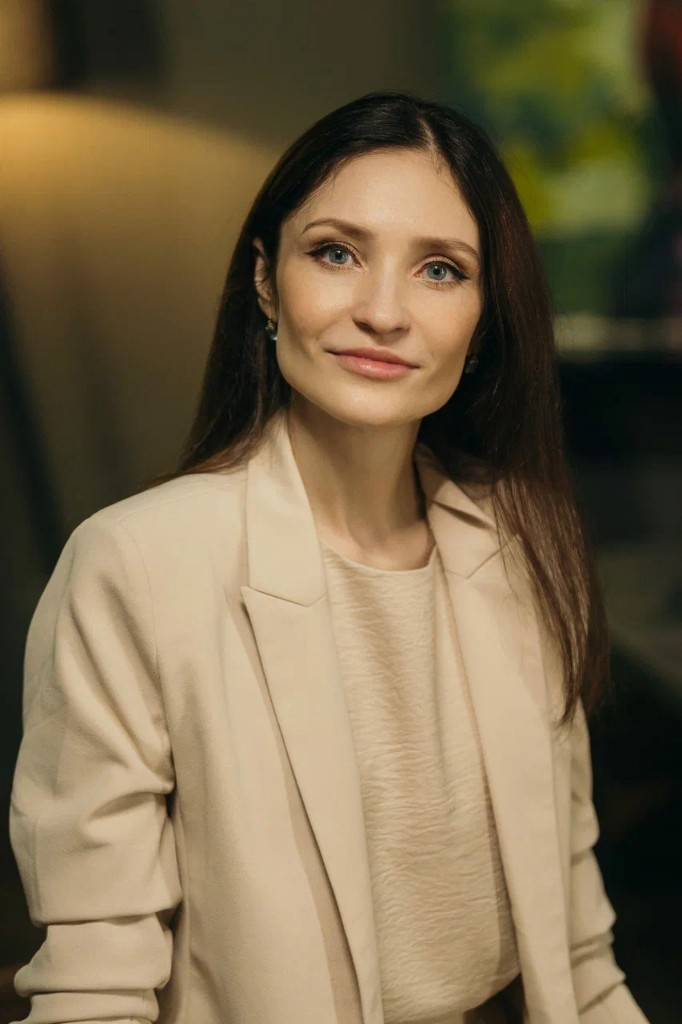
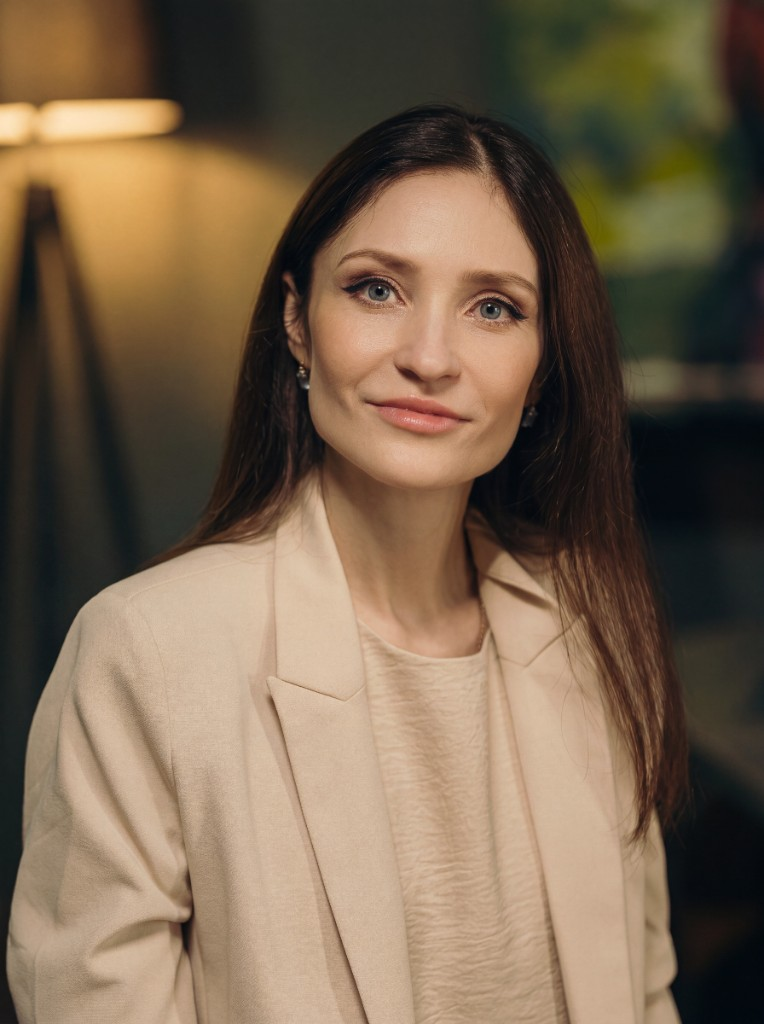
Обновить должности команды и фото Светланы без сжатия.

diff --git a/lib/data.ts b/lib/data.ts
@@ -169,7 +169,7 @@ export const FEATURED_PARTNER = {
   role: "Управляющий партнёр · член АЮР",
   focus:
     "Корпоративное право и M&A, банкротство юридических лиц, сделки с недвижимостью",
-  photo: "/images/team-svetlana.jpg",
+  photo: "/images/team-svetlana.jpeg",
   facts: [
     {
       value: "16 лет",
@@ -185,33 +185,33 @@ export const FEATURED_PARTNER = {
 export const TEAM = [
   {
     name: "Алексей Буллер",
-    role: "Юрист",
+    role: "Старший юрист · член АЮР",
     focus: "Сопровождение бизнеса, арбитражные споры, интеллектуальная собственность",
     photo: "/images/team-man-3b.jpg",
   },
   {
     name: "Евгений Рощупкин",
-    role: "Юрист",
+    role: "Партнёр",
     focus:
       "Управление бизнес-процессами, выстраивание долгосрочных отношений с партнёрами и госорганами",
     photo: "/images/team-man-1.jpg",
   },
   {
     name: "Вячеслав Иванов",
-    role: "Юрист",
-    focus: "Налоги и имущественные споры",
+    role: "Старший юрист · член АЮР",
+    focus: "Налоги, земельные и имущественные споры",
     photo: "/images/team-man-2.jpg",
   },
   {
     name: "Ирина Володина",
-    role: "Управляющий партнёр · член АЮР",
+    role: "Старший юрист · член АЮР",
     focus: "Трудовые споры, автоюрист, медицинское право",
     photo: "/images/team-irina.jpg",
   },
   {
     name: "Елена Попова",
     role: "Старший юрист · член АЮР",
-    focus: "Банкротство физических лиц",
+    focus: "Защита прав граждан, семейное, наследственное, жилищное и военное право",
     photo: "/images/team-elena.jpg",
   },
   {

diff --git a/components/Team.tsx b/components/Team.tsx
@@ -59,6 +59,7 @@ function MemberCard({
             src={photo}
             alt={name}
             fill
+            unoptimized
             sizes={featured || photoOnly ? "(max-width:1024px) 100vw, 42vw" : "(max-width:640px) 100vw, 33vw"}
             className="object-cover object-top"
           />
